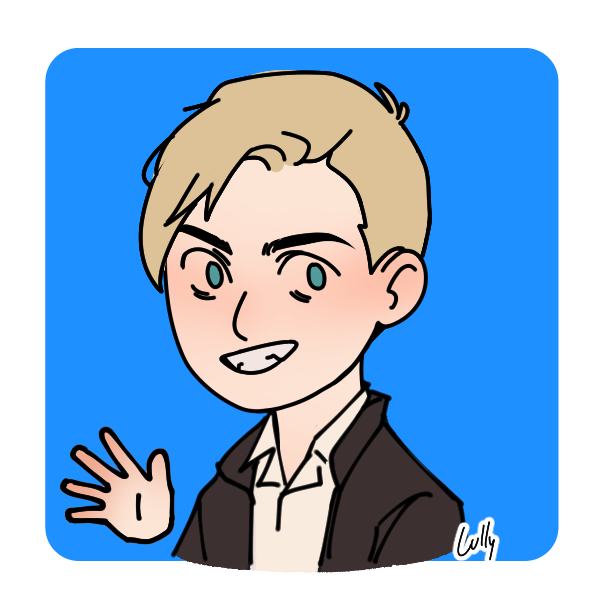
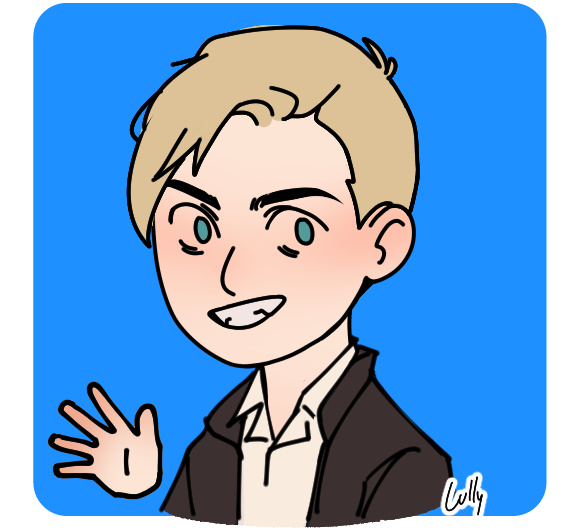
updated About page

Changed region(s): [[0.031, 0.0, 0.9621, 0.9962], [0.5276, 0.634, 0.5586, 0.6642]]

diff --git a/about.html b/about.html
@@ -31,7 +31,10 @@
             <main>
                 <section class="col-1">
                     <h2>About Me</h2>
-                    <img src="img/sam-picture.png" style="float: right;" width="240" height="240" alt="Sam caricature.">
+                    <figure>
+                        <img src="img/sam-picture.png" width="200" height="182" alt="Sam caricature."> 
+                        <figcaption>Art by @lullindo</figcaption>
+                    </figure>
                     <p>I'm a gameplay and combat designer, artist, and storyteller.</p>
                     <p>My strength lies in crafting the core elements that make a game feel great to play, bridging the gap between creative vision and technical execution. While my expertise is mostly in design, I possess strong technical literacy. I understand how game systems connect under the hood, which allows me to create realistic, implementable designs and effectively communicate with interdisciplinary teams.</p>
                     <p>My game design journey started with modding <span style="font-style: italic">Super Mario World</span> as a kid and writing my own design documents as a teenager. That passion led me to analyze the intersections of narrative and play with a Bachelor of Arts in Cultural Studies, and a diploma in Game Design to sharpen my hard skills.</p>

diff --git a/css/styles.css b/css/styles.css
@@ -109,3 +109,14 @@ footer ul {
     align-items: center;
     justify-content: center;
 }
+
+figure {
+    float: right;
+}
+
+figcaption {
+    color: black;
+    font-style: italic;
+    font-size: 12px;
+    text-align: center;
+}
